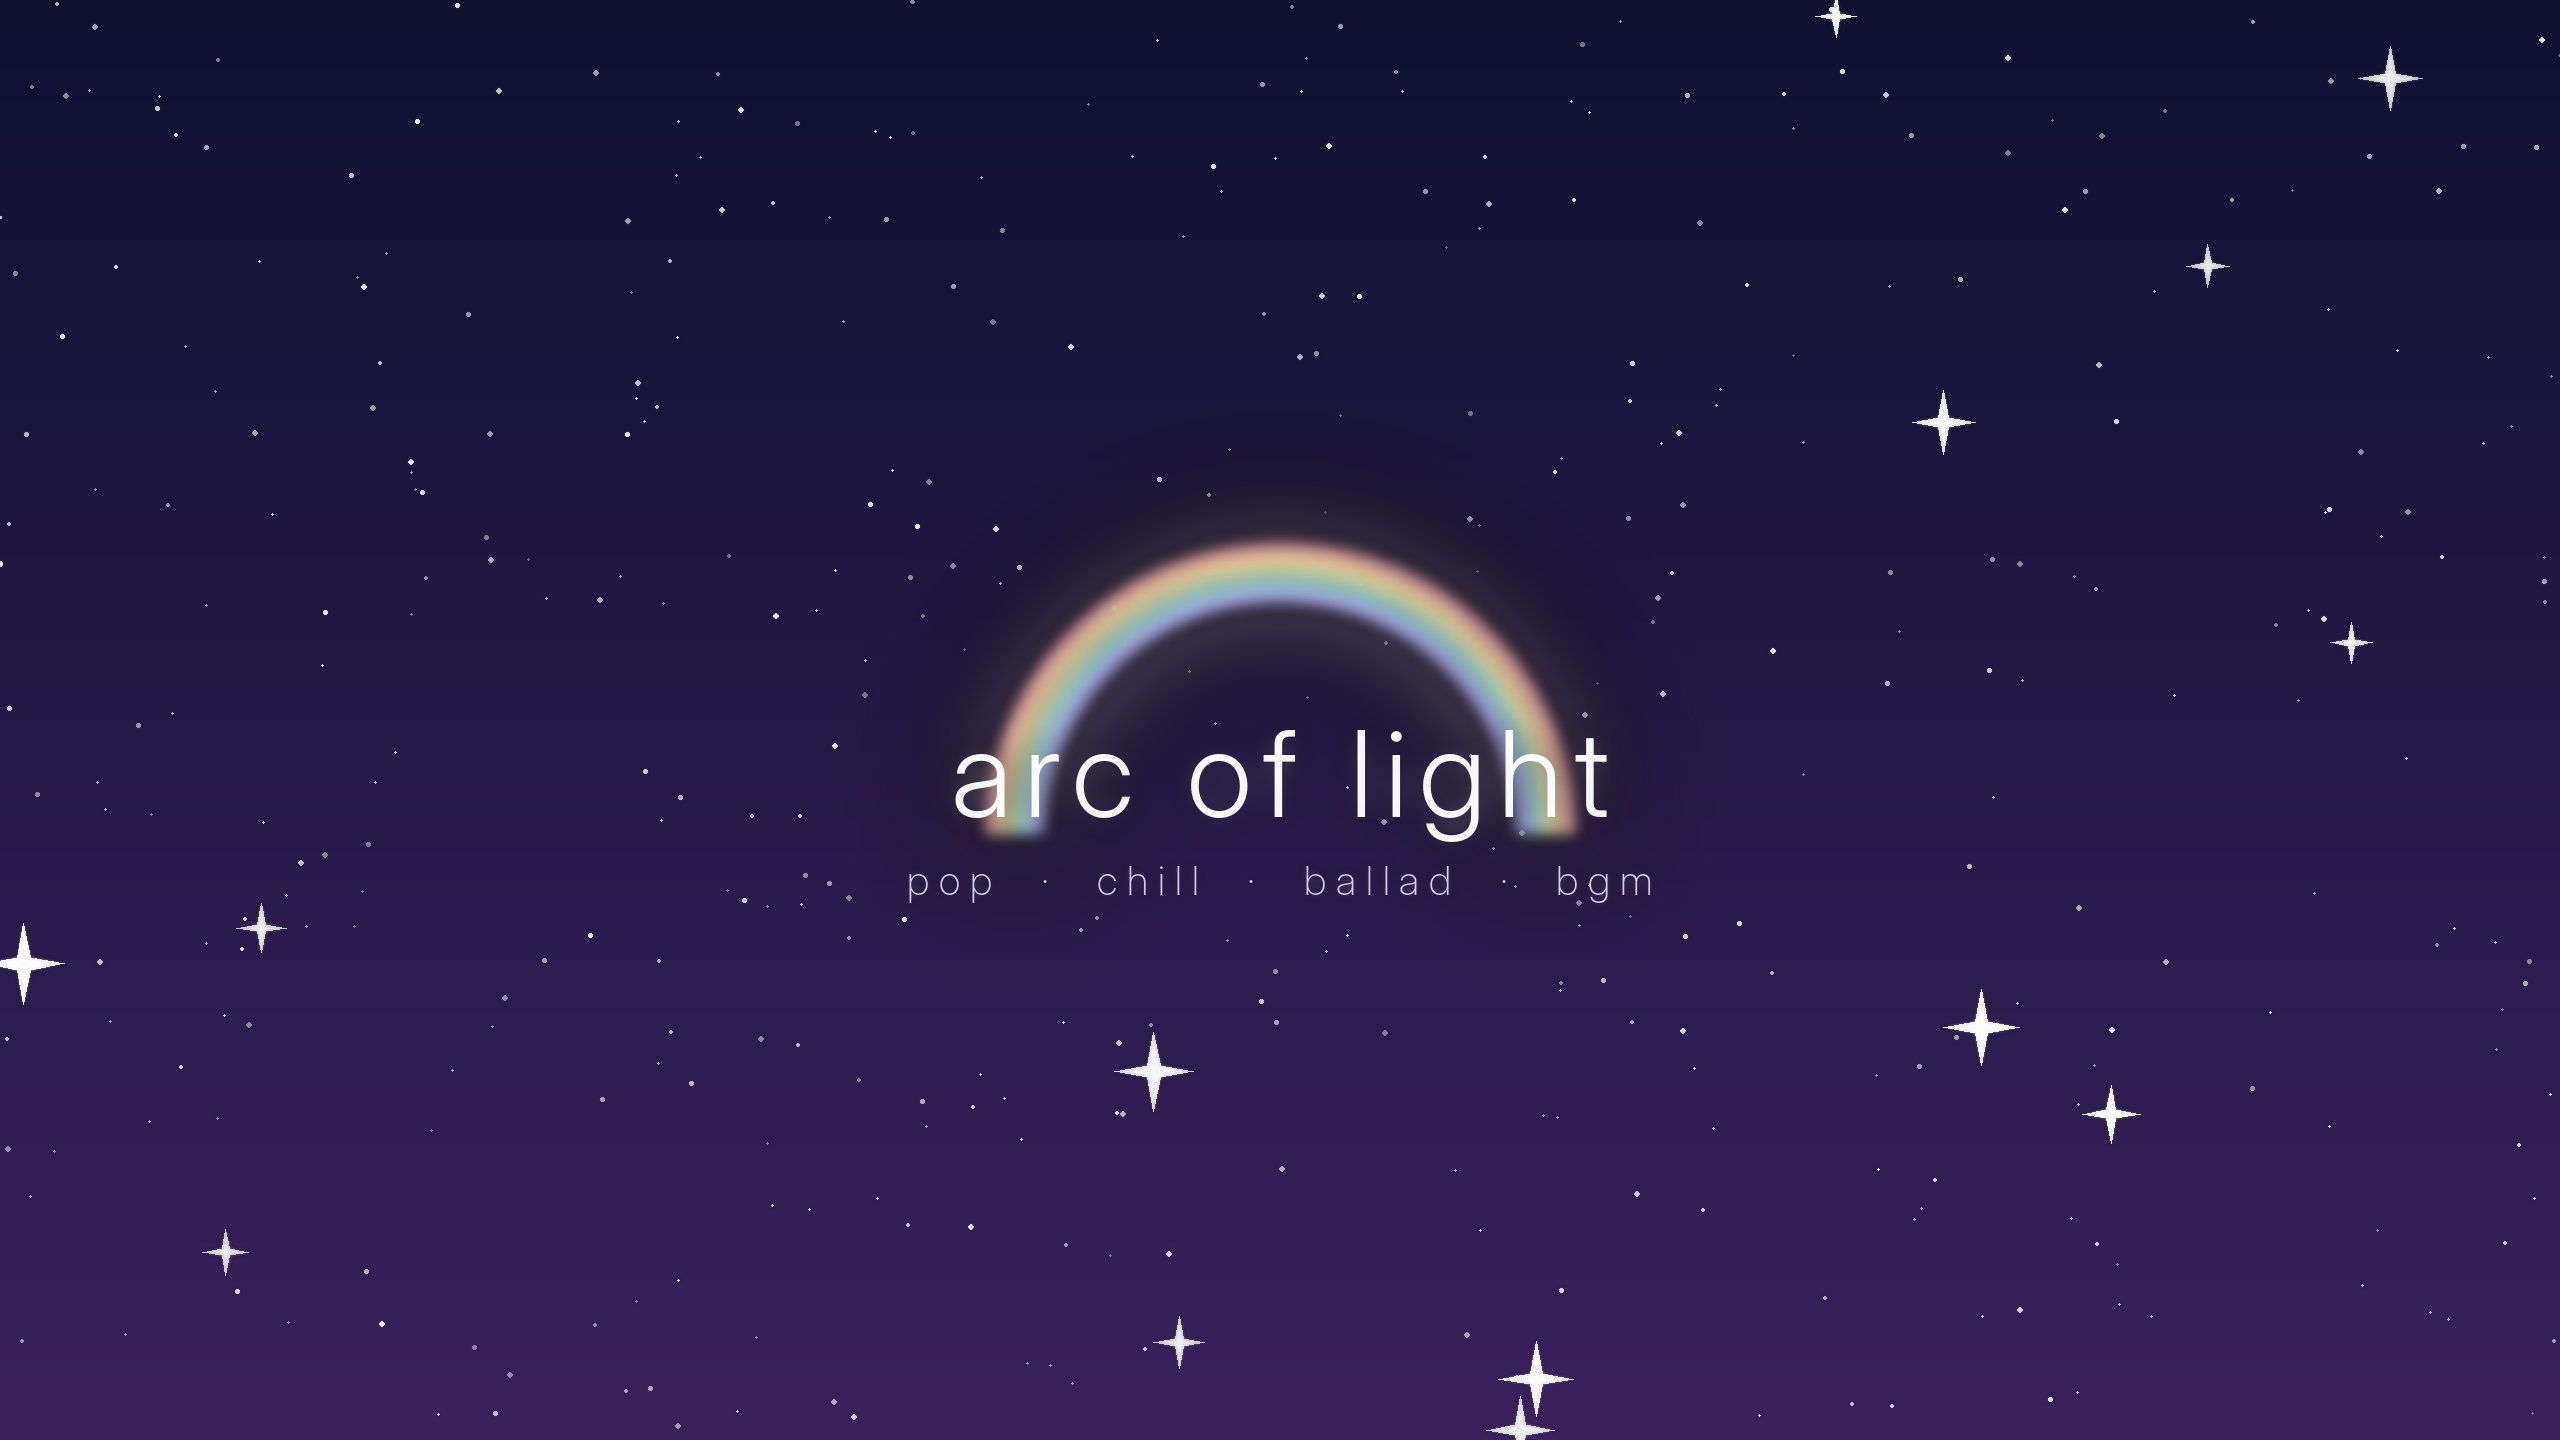
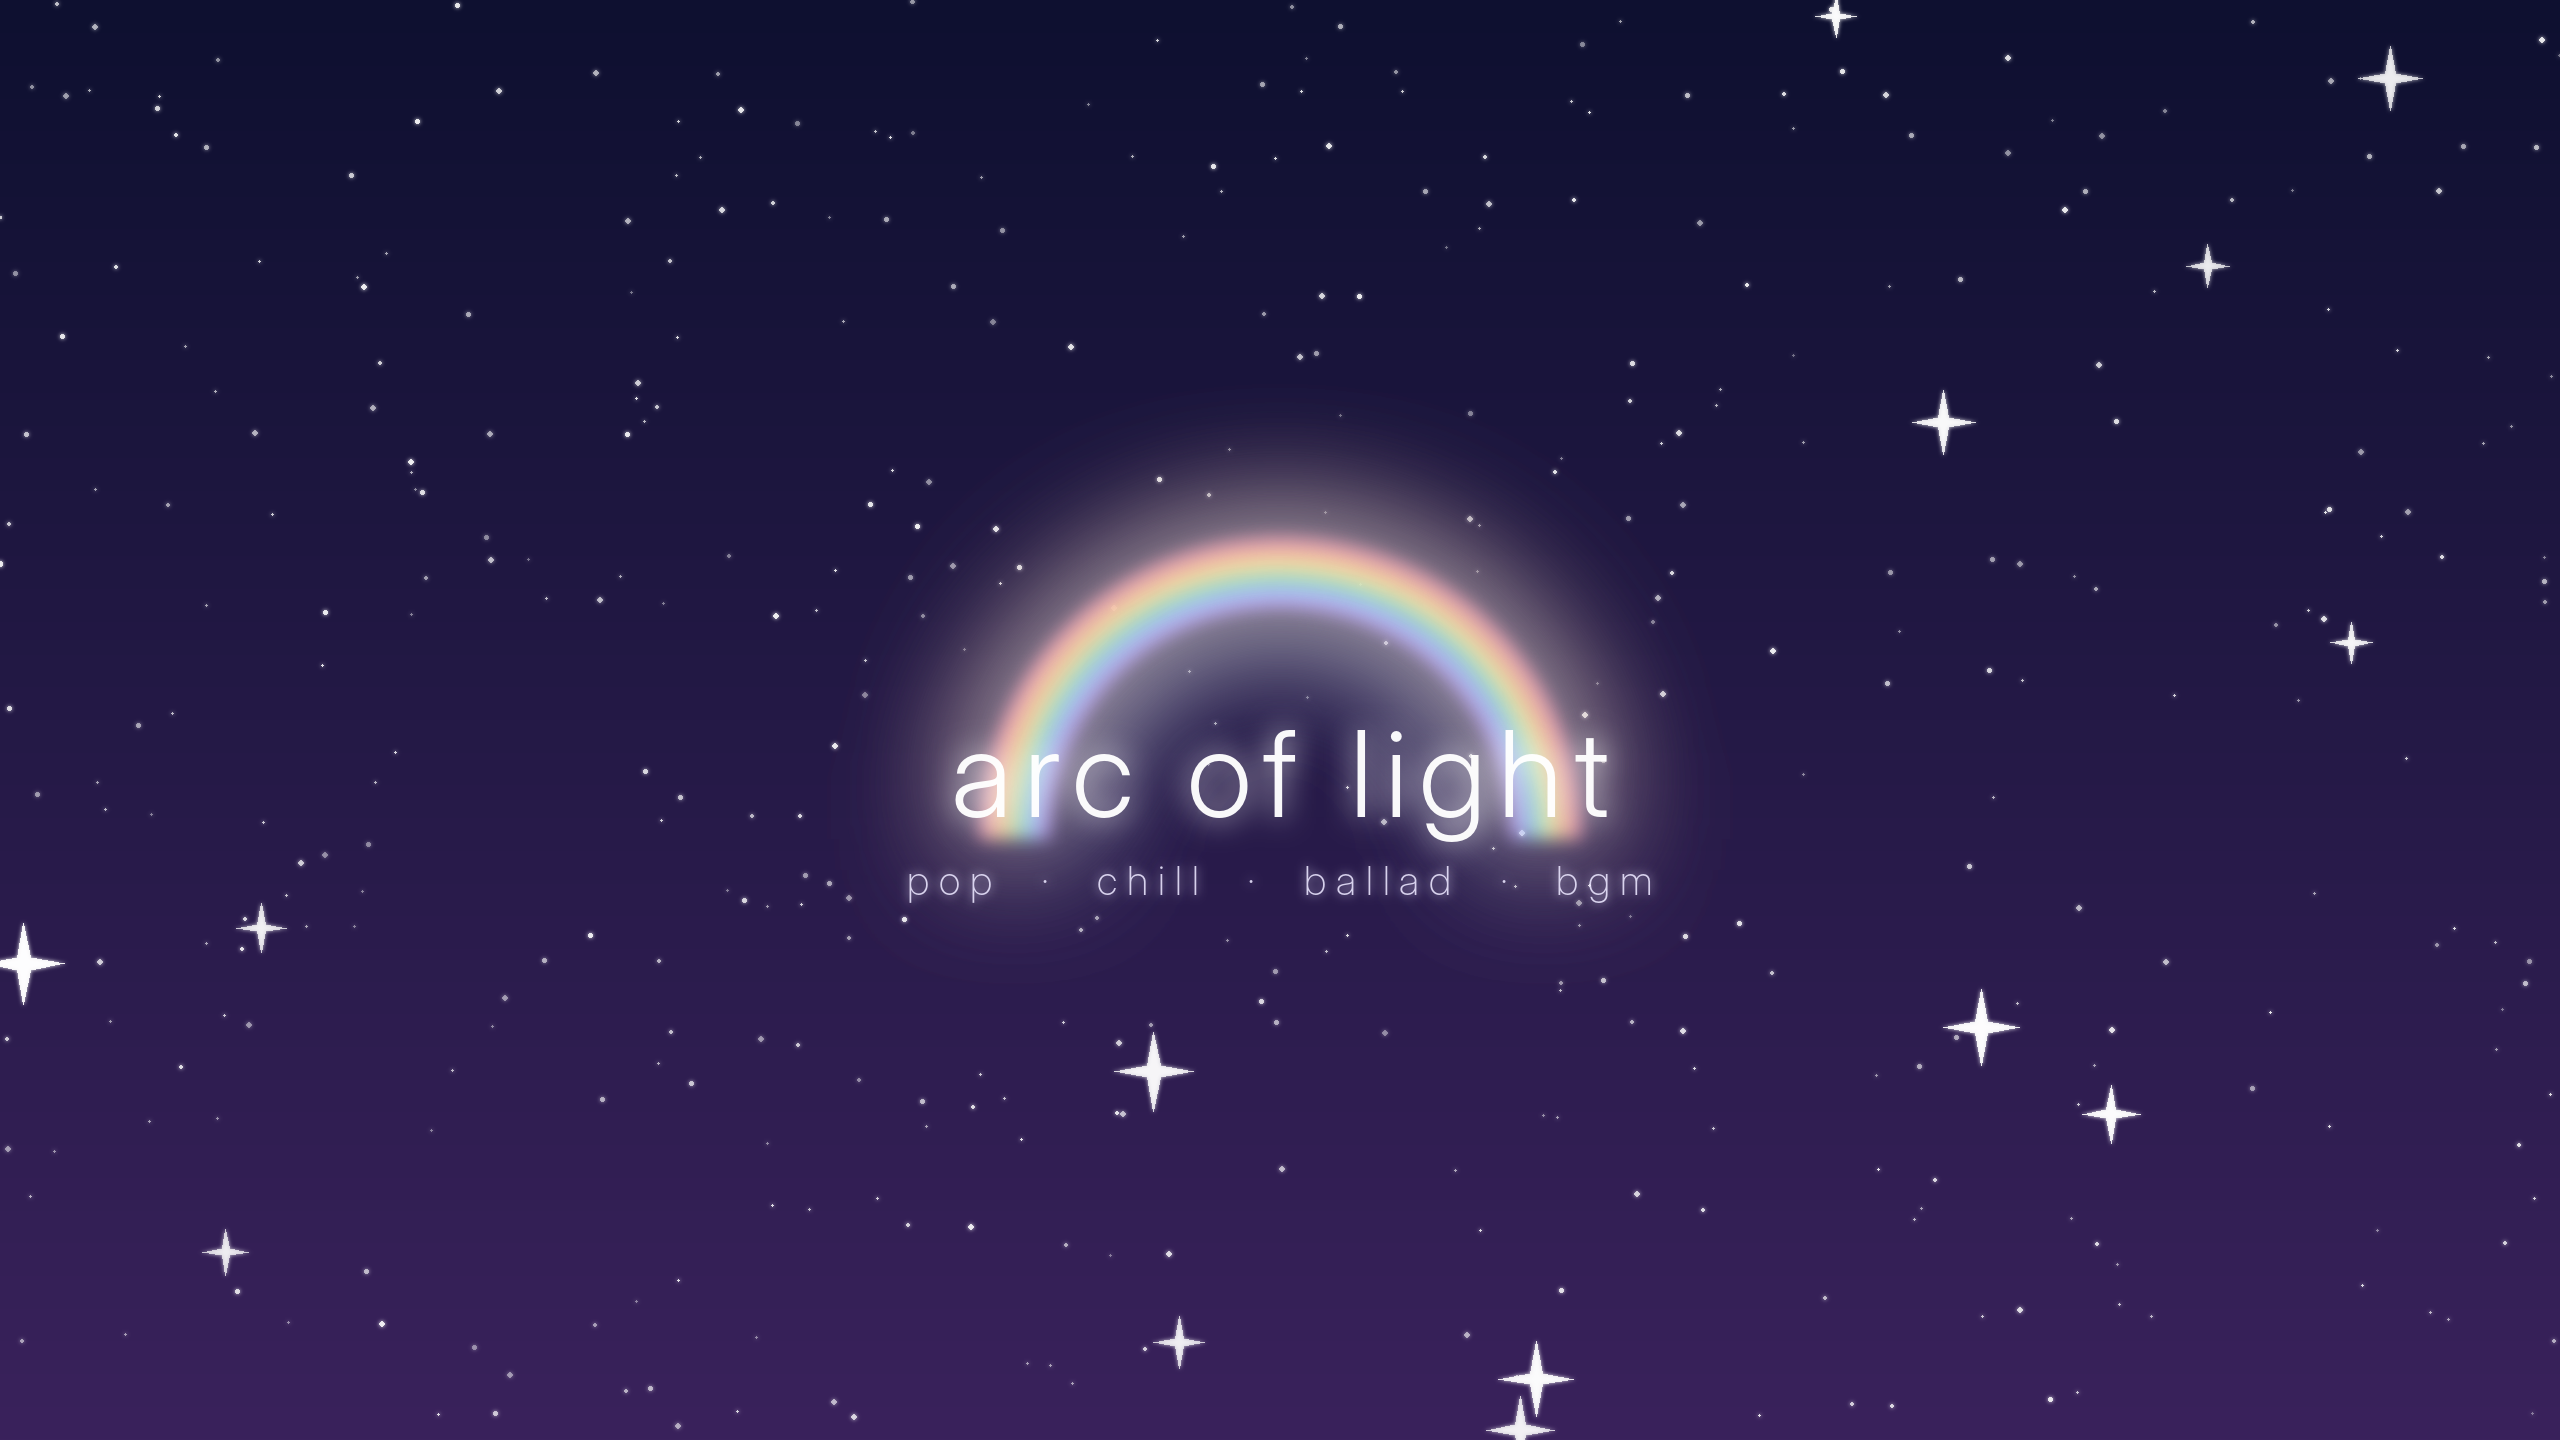
arc of light：昼の版（青空と虹）のアイコンとバナーを追加、光のにじみを修正
Claude-Session: https://claude.ai/code/session_016yye45m5vLS41jvX7Nye7Y

Changed region(s): [[0.3438, 0.3125, 0.6562, 0.625], [0.4375, 0.7188, 0.4688, 0.75], [0.0, 0.6562, 0.0312, 0.6875]]

diff --git a/arc_of_light/make_brand_images.py b/arc_of_light/make_brand_images.py
@@ -1,4 +1,4 @@
-"""arc of light のチャンネルアイコン（800×800）とバナー（2560×1440）を作る。
+"""arc of light のチャンネルアイコン（800×800）とバナー（2560×1440）を、夜の版と昼の版で作る。
 
 使い方: python3 make_brand_images.py
 - 背景は夜空の紺から紫へのグラデーション、やわらかい虹の弧（ぼかして光らせる）、星のきらめき
@@ -15,30 +15,48 @@ OUT = Path(__file__).parent
 FONT = "/usr/share/fonts/opentype/inter/InterDisplay-Light.otf"
 FONT_THIN = "/usr/share/fonts/opentype/inter/InterDisplay-ExtraLight.otf"
 TOP, BOTTOM = (14, 16, 48), (58, 34, 92)
+# 昼の版：青空から、やわらかい桃色へ。文字は濃い紺で読みやすく
+DAY_TOP, DAY_BOTTOM = (120, 196, 255), (255, 214, 226)
+INK = (34, 40, 96, 250)
 RAINBOW = [(255, 170, 190), (255, 205, 160), (255, 240, 170), (170, 240, 205), (160, 205, 255), (200, 175, 255)]
 
 
-def gradient(w, h):
+def blur(layer, radius):
+    # 透明な所の黒がにじまないよう、色に不透明度を掛けてからぼかし、あとで割り戻す
+    import numpy as np
+    a = np.asarray(layer, dtype=np.float32) / 255
+    pm = np.dstack([a[..., :3] * a[..., 3:4], a[..., 3:4]])
+    pm_im = [Image.fromarray((pm[..., i] * 255).astype("uint8")).filter(ImageFilter.GaussianBlur(radius)) for i in range(4)]
+    b = np.dstack([np.asarray(c, dtype=np.float32) / 255 for c in pm_im])
+    alpha = b[..., 3:4]
+    rgb = np.where(alpha > 1e-4, b[..., :3] / np.maximum(alpha, 1e-4), 0)
+    out = np.dstack([np.clip(rgb, 0, 1), alpha]) * 255
+    return Image.fromarray(out.astype("uint8"), "RGBA")
+
+
+def gradient(w, h, top=TOP, bottom=BOTTOM):
+    TOP_, BOTTOM_ = top, bottom
     im = Image.new("RGB", (w, h))
     px = im.load()
     for y in range(h):
         t = y / (h - 1)
-        c = tuple(int(TOP[i] + (BOTTOM[i] - TOP[i]) * t) for i in range(3))
+        c = tuple(int(TOP_[i] + (BOTTOM_[i] - TOP_[i]) * t) for i in range(3))
         for x in range(w):
             px[x, y] = c
     return im
 
 
-def arc(size, cx, cy, r, width):
+def arc(size, cx, cy, r, width, colors=None):
     # 虹の弧：色ごとに少しずつ半径をずらして描き、ぼかして光らせる
     layer = Image.new("RGBA", size, (0, 0, 0, 0))
     d = ImageDraw.Draw(layer)
-    band = width / len(RAINBOW)
-    for i, c in enumerate(RAINBOW):
+    colors = colors or RAINBOW
+    band = width / len(colors)
+    for i, c in enumerate(colors):
         rr = r - i * band
         d.arc([cx - rr, cy - rr, cx + rr, cy + rr], 180, 360, fill=c + (230,), width=max(2, int(band)))
-    glow = layer.filter(ImageFilter.GaussianBlur(width * 0.9))
-    soft = layer.filter(ImageFilter.GaussianBlur(width * 0.12))
+    glow = blur(layer, width * 0.9)
+    soft = blur(layer, width * 0.12)
     out = Image.new("RGBA", size, (0, 0, 0, 0))
     out.alpha_composite(glow)
     out.alpha_composite(glow)
@@ -73,14 +91,14 @@ def sparkles(size, n, seed, big=4, region=None, avoid=None):
             continue
         placed += 1
         star(d, x, y, rng.uniform(w * 0.008, w * 0.016), rng.randint(180, 240))
-    glow = layer.filter(ImageFilter.GaussianBlur(2))
+    glow = blur(layer, 2)
     out = Image.new("RGBA", size, (0, 0, 0, 0))
     out.alpha_composite(glow)
     out.alpha_composite(layer)
     return out
 
 
-def text(im, s, font, cx, cy, spacing, fill=(255, 255, 255, 245)):
+def text(im, s, font, cx, cy, spacing, fill=(255, 255, 255, 245), glow=True):
     # 字間を広げて1文字ずつ置き、ほんのり光らせる
     d = ImageDraw.Draw(im)
     widths = [d.textlength(ch, font=font) for ch in s]
@@ -93,8 +111,58 @@ def text(im, s, font, cx, cy, spacing, fill=(255, 255, 255, 245)):
     for ch, wch in zip(s, widths):
         ld.text((x, y), ch, font=font, fill=fill)
         x += wch + spacing
-    im.alpha_composite(layer.filter(ImageFilter.GaussianBlur(font.size * 0.12)))
+    if glow:
+        im.alpha_composite(blur(layer, font.size * 0.12))
     im.alpha_composite(layer)
+
+
+# 昼の虹は色をはっきりめに
+DAY_RAINBOW = [(255, 120, 150), (255, 170, 100), (255, 220, 90), (110, 215, 150), (90, 170, 255), (165, 130, 255)]
+
+
+def clouds(size, seed, n, avoid=None):
+    # ふんわりした白い雲（円を重ねてぼかす）
+    rng = random.Random(seed)
+    w, h = size
+    layer = Image.new("RGBA", size, (0, 0, 0, 0))
+    d = ImageDraw.Draw(layer)
+    placed = 0
+    while placed < n:
+        cx, cy = rng.uniform(0, w), rng.uniform(h * 0.05, h * 0.95)
+        if avoid and avoid[0] < cx < avoid[2] and avoid[1] < cy < avoid[3]:
+            continue
+        placed += 1
+        s = rng.uniform(w * 0.04, w * 0.08)
+        for _ in range(6):
+            ox, oy, r = rng.uniform(-1.6, 1.6) * s, rng.uniform(-0.3, 0.3) * s, rng.uniform(0.5, 0.9) * s
+            d.ellipse([cx + ox - r, cy + oy - r * 0.7, cx + ox + r, cy + oy + r * 0.7], fill=(255, 255, 255, 150))
+    return blur(layer, w * 0.012)
+
+
+def icon_day():
+    w = h = 800
+    im = gradient(w, h, DAY_TOP, DAY_BOTTOM).convert("RGBA")
+    im.alpha_composite(clouds((w, h), 2, 4, avoid=(120, 180, 680, 680)))
+    im.alpha_composite(sparkles((w, h), 40, 5, big=5, avoid=(150, 520, 650, 650)))
+    im.alpha_composite(arc((w, h), w / 2, h * 0.60, 250, 90, DAY_RAINBOW))
+    star(ImageDraw.Draw(im), w * 0.72, h * 0.30, 26, 255)
+    text(im, "arc of light", ImageFont.truetype(FONT, 74), w / 2, h * 0.73, 6, fill=INK, glow=False)
+    im.convert("RGB").save(OUT / "icon_day_800.png")
+
+
+def banner_day():
+    w, h = 2560, 1440
+    im = gradient(w, h, DAY_TOP, DAY_BOTTOM).convert("RGBA")
+    sx0, sy0 = (w - 1546) / 2, (h - 423) / 2
+    im.alpha_composite(clouds((w, h), 9, 9, avoid=(sx0 - 100, sy0 - 80, sx0 + 1646, sy0 + 503)))
+    im.alpha_composite(sparkles((w, h), 160, 11, big=12, avoid=(sx0 - 60, sy0 - 60, sx0 + 1606, sy0 + 483)))
+    im.alpha_composite(arc((w, h), w / 2, sy0 + 330, 300, 70, DAY_RAINBOW))
+    text(im, "arc of light", ImageFont.truetype(FONT, 120), w / 2, sy0 + 265, 12, fill=INK, glow=False)
+    text(im, "pop  ·  chill  ·  ballad  ·  bgm", ImageFont.truetype(FONT, 40), w / 2, sy0 + 372, 10, fill=(60, 64, 120, 230), glow=False)
+    im.convert("RGB").save(OUT / "banner_day_2560x1440.png")
+    chk = im.copy()
+    ImageDraw.Draw(chk).rectangle([sx0, sy0, sx0 + 1546, sy0 + 423], outline=(255, 80, 80, 255), width=4)
+    chk.convert("RGB").resize((1280, 720)).save(OUT / "banner_day_safe_area_check.png")
 
 
 def icon():
@@ -125,4 +193,6 @@ def banner():
 if __name__ == "__main__":
     icon()
     banner()
+    icon_day()
+    banner_day()
     print("done")
